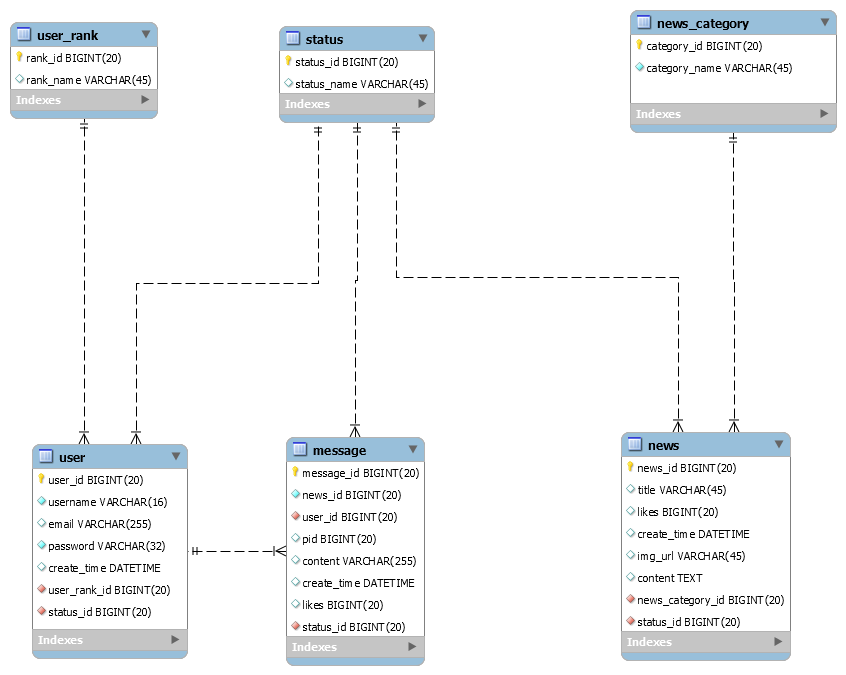
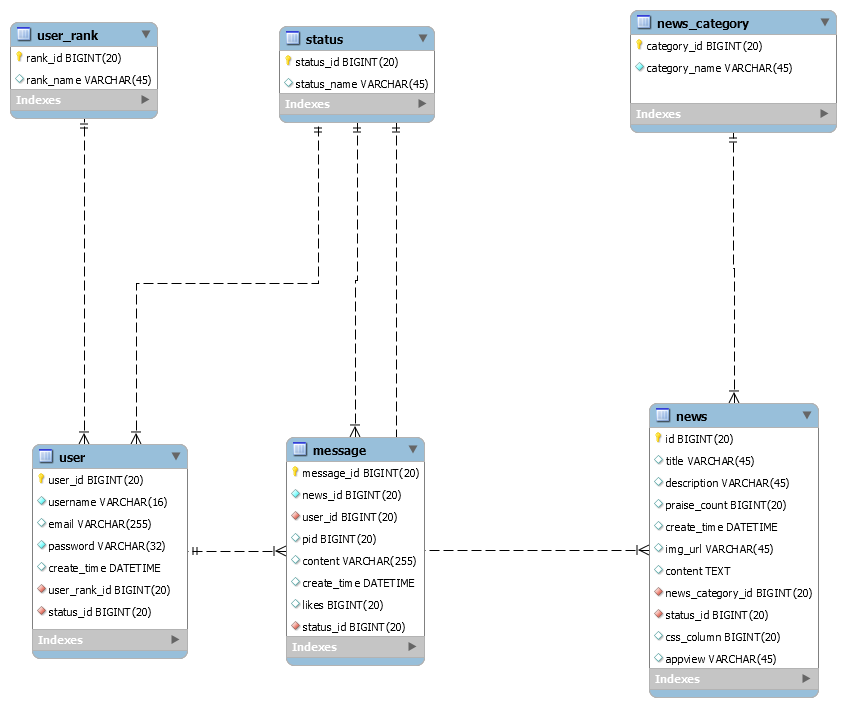
更改SQL数据结构

diff --git a/src/main/java/cn/abbenyyy/imitation_daily/domain/News.java b/src/main/java/cn/abbenyyy/imitation_daily/domain/News.java
@@ -1,9 +1,10 @@
 package cn.abbenyyy.imitation_daily.domain;
 
+import com.fasterxml.jackson.annotation.JsonFormat;
 import org.hibernate.annotations.CreationTimestamp;
+import org.springframework.format.annotation.DateTimeFormat;
 
 import javax.persistence.*;
-import javax.validation.constraints.Size;
 import java.util.Date;
 
 @Entity
@@ -11,19 +12,27 @@ import java.util.Date;
 public class News {
 
     @Id
-    @Column(nullable = false,columnDefinition = "BIGINT(20) UNSIGNED")
-    @GeneratedValue(strategy = GenerationType.AUTO)
+    @Column(nullable = false, columnDefinition = "BIGINT(20) UNSIGNED")
+    @GeneratedValue(strategy = GenerationType.IDENTITY)
     private Long id;
 
     private String title;
 
-    @Column(columnDefinition = "BIGINT(20) UNSIGNED DEFAULT 0")
-    private Long likes;
+    private String description;
 
+    @Column(columnDefinition = "BIGINT(20) UNSIGNED DEFAULT 0")
+    private Long praiseCount= 0L;
+
+    @Column(columnDefinition = "BIGINT(20) UNSIGNED DEFAULT 0")
+    private Long commentCount = 0L;
+
+    @DateTimeFormat(pattern = "yyyy-MM-dd HH:mm:ss")
+    @JsonFormat(timezone = "GMT+8", pattern = "yyyy-MM-dd HH:mm:ss")
     @Temporal(TemporalType.TIMESTAMP)
     @Column(updatable = false)
     @CreationTimestamp
     private Date createTime;
+
 
     private String imgUrl;
 
@@ -36,7 +45,13 @@ public class News {
     @Column(columnDefinition = "TEXT")
     private String content;
 
-    protected News(){}
+    @Column(columnDefinition = "BIGINT(20) UNSIGNED")
+    private Long cssColumn;
+
+    private String appview;
+
+    protected News() {
+    }
 
     public Long getId() {
         return id;
@@ -52,14 +67,6 @@ public class News {
 
     public void setTitle(String title) {
         this.title = title;
-    }
-
-    public Long getLikes() {
-        return likes;
-    }
-
-    public void setLikes(Long likes) {
-        this.likes = likes;
     }
 
     public Date getCreateTime() {
@@ -100,5 +107,45 @@ public class News {
 
     public void setContent(String content) {
         this.content = content;
+    }
+
+    public String getDescription() {
+        return description;
+    }
+
+    public void setDescription(String description) {
+        this.description = description;
+    }
+
+    public Long getPraiseCount() {
+        return praiseCount;
+    }
+
+    public void setPraiseCount(Long praiseCount) {
+        this.praiseCount = praiseCount;
+    }
+
+    public Long getCommentCount() {
+        return commentCount;
+    }
+
+    public void setCommentCount(Long commentCount) {
+        this.commentCount = commentCount;
+    }
+
+    public Long getCssColumn() {
+        return cssColumn;
+    }
+
+    public void setCssColumn(Long cssColumn) {
+        this.cssColumn = cssColumn;
+    }
+
+    public String getAppview() {
+        return appview;
+    }
+
+    public void setAppview(String appview) {
+        this.appview = appview;
     }
 }

diff --git a/src/main/java/cn/abbenyyy/imitation_daily/controller/NewsController.java b/src/main/java/cn/abbenyyy/imitation_daily/controller/NewsController.java
@@ -2,10 +2,10 @@ package cn.abbenyyy.imitation_daily.controller;
 
 import cn.abbenyyy.imitation_daily.domain.News;
 import cn.abbenyyy.imitation_daily.responsitory.NewsRepository;
+import com.fasterxml.jackson.annotation.JsonFormat;
+import com.fasterxml.jackson.annotation.JsonIgnore;
 import org.springframework.beans.factory.annotation.Autowired;
-import org.springframework.web.bind.annotation.PostMapping;
-import org.springframework.web.bind.annotation.RequestBody;
-import org.springframework.web.bind.annotation.RestController;
+import org.springframework.web.bind.annotation.*;
 
 @RestController
 public class NewsController {
@@ -17,5 +17,12 @@ public class NewsController {
     public String save(@RequestBody News entity) {
         entity = newsRepository.save(entity);
         return "id:"+entity.getId();
+    }
+
+
+
+    @GetMapping
+    public @ResponseBody News get(){
+        return newsRepository.findById(1L).get();
     }
 }

diff --git a/src/main/java/cn/abbenyyy/imitation_daily/responsitory/NewsRepository.java b/src/main/java/cn/abbenyyy/imitation_daily/responsitory/NewsRepository.java
@@ -2,7 +2,6 @@ package cn.abbenyyy.imitation_daily.responsitory;
 
 import cn.abbenyyy.imitation_daily.domain.News;
 import org.springframework.data.jpa.repository.JpaRepository;
-import org.springframework.data.repository.CrudRepository;
 
 public interface NewsRepository extends JpaRepository<News,Long> {
 

diff --git a/src/main/java/cn/abbenyyy/imitation_daily/ImitationDailyApplication.java b/src/main/java/cn/abbenyyy/imitation_daily/ImitationDailyApplication.java
@@ -3,6 +3,8 @@ package cn.abbenyyy.imitation_daily;
 import org.springframework.boot.SpringApplication;
 import org.springframework.boot.autoconfigure.SpringBootApplication;
 
+import java.time.Instant;
+
 @SpringBootApplication
 public class ImitationDailyApplication {
 
